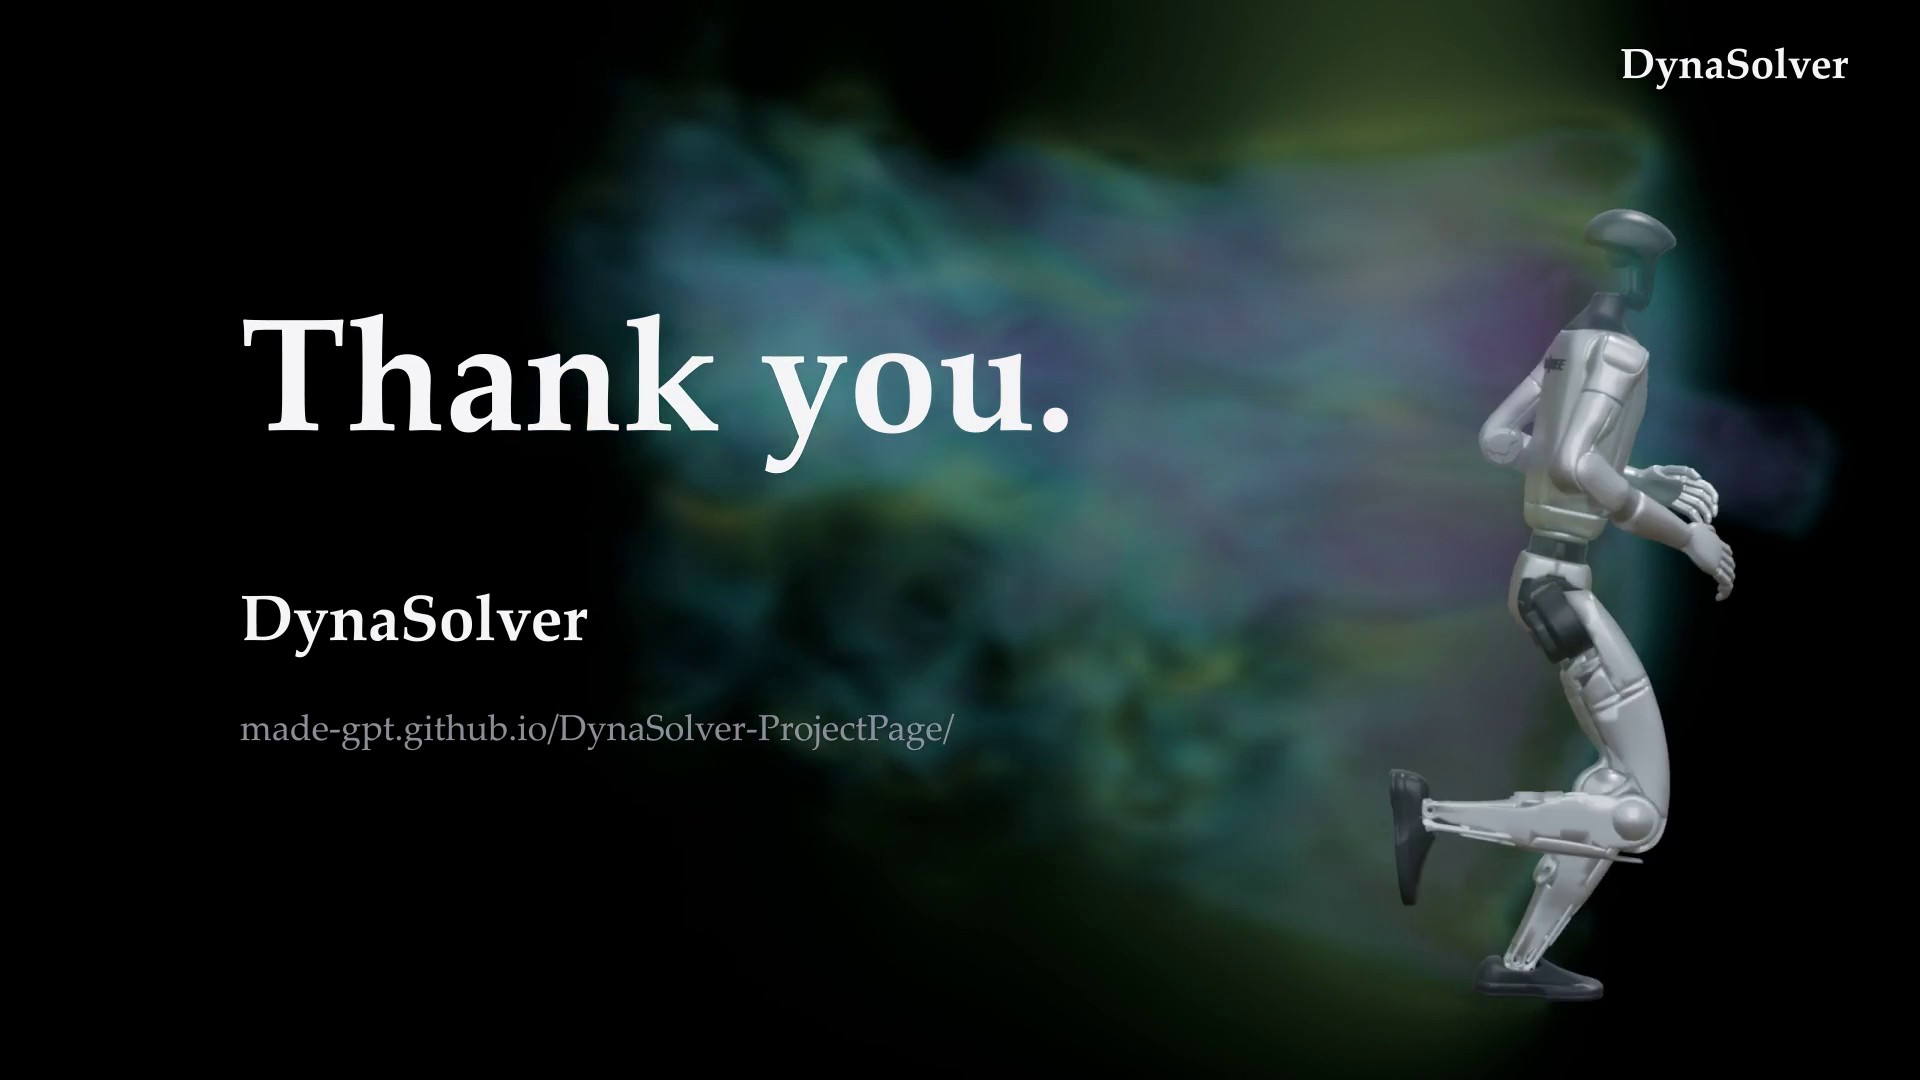
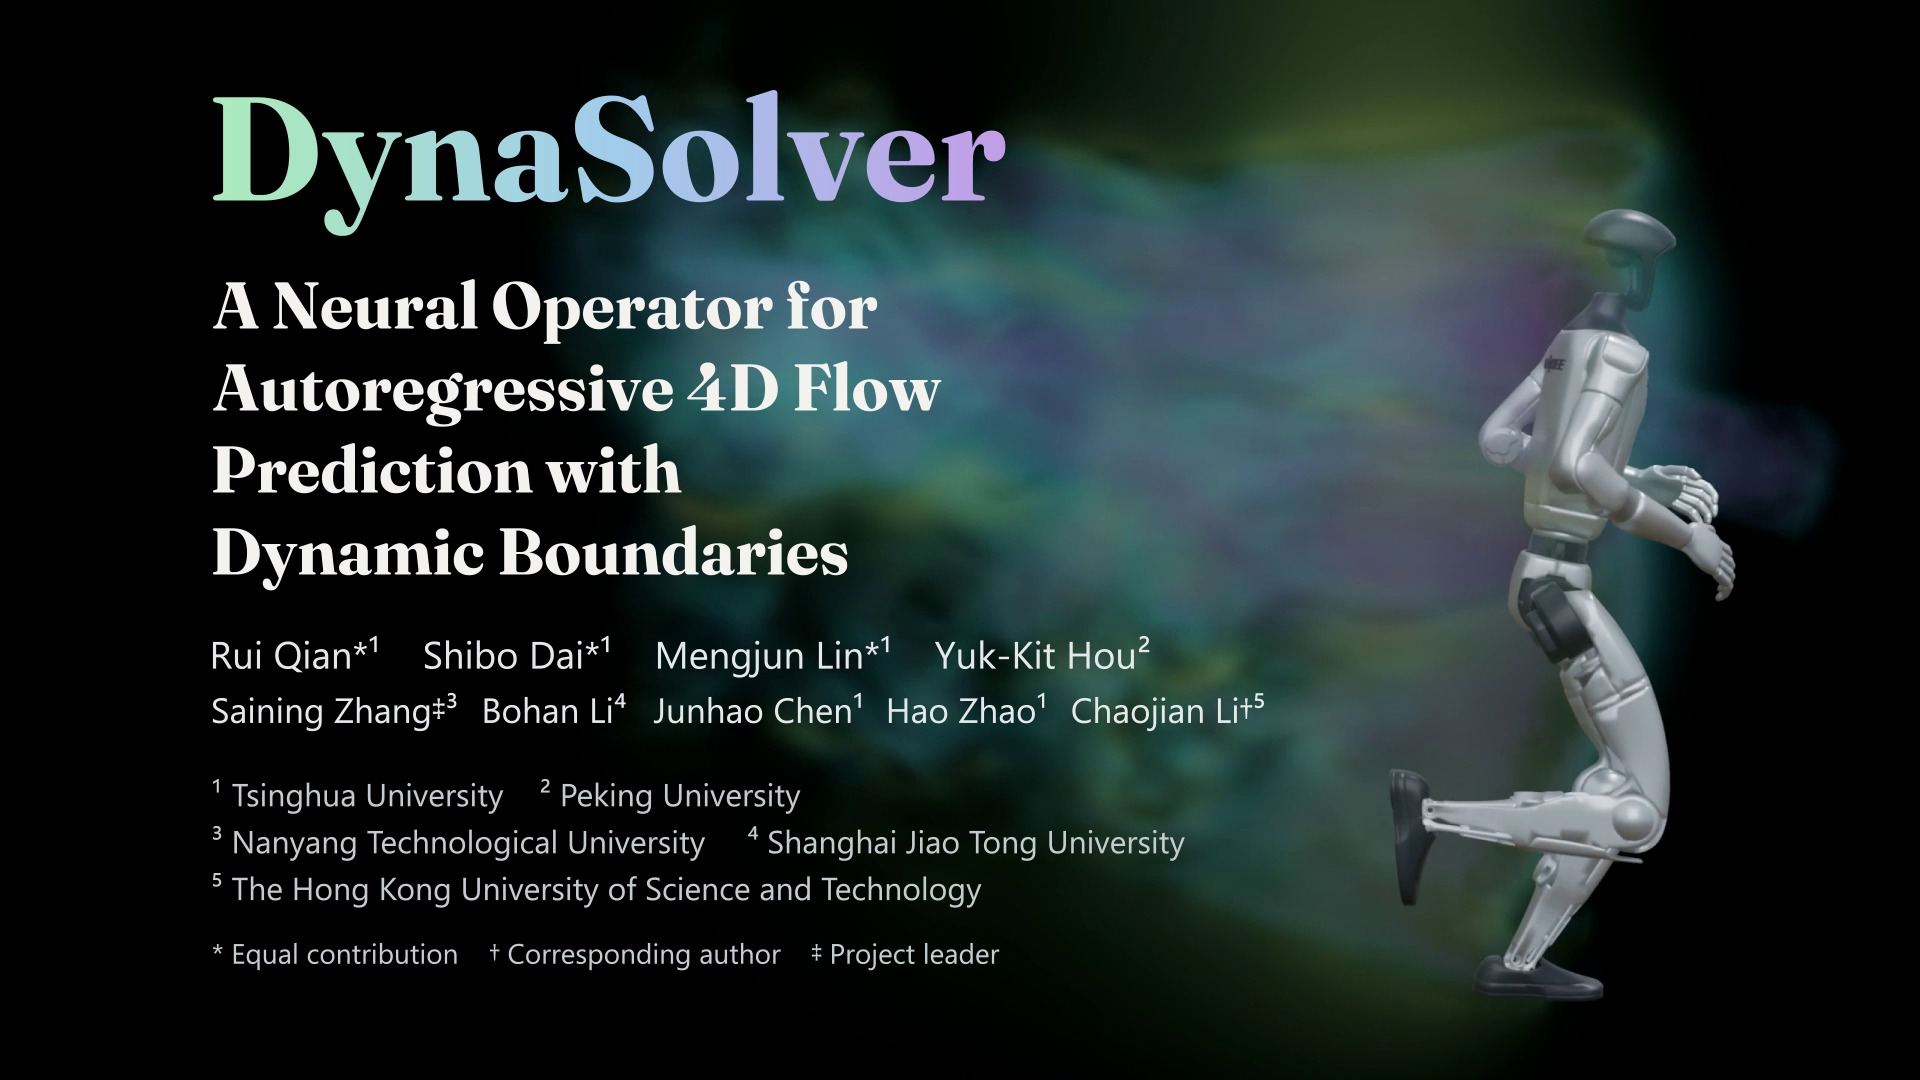
cover update

diff --git a/index.html b/index.html
@@ -64,7 +64,7 @@
     <section class="band" id="video">
       <div class="wrap">
         <h2>Video</h2>
-        <video class="demo-video" controls preload="metadata" playsinline poster="static/video/demo.jpg?v=3">
+        <video class="demo-video" controls preload="metadata" playsinline poster="static/video/demo.jpg?v=4">
           <source src="static/video/demo.mp4?v=2" type="video/mp4" />
         </video>
         <p class="caption video-caption">Overview of RoboCFD-4D and DynaSolver (1:16).</p>
